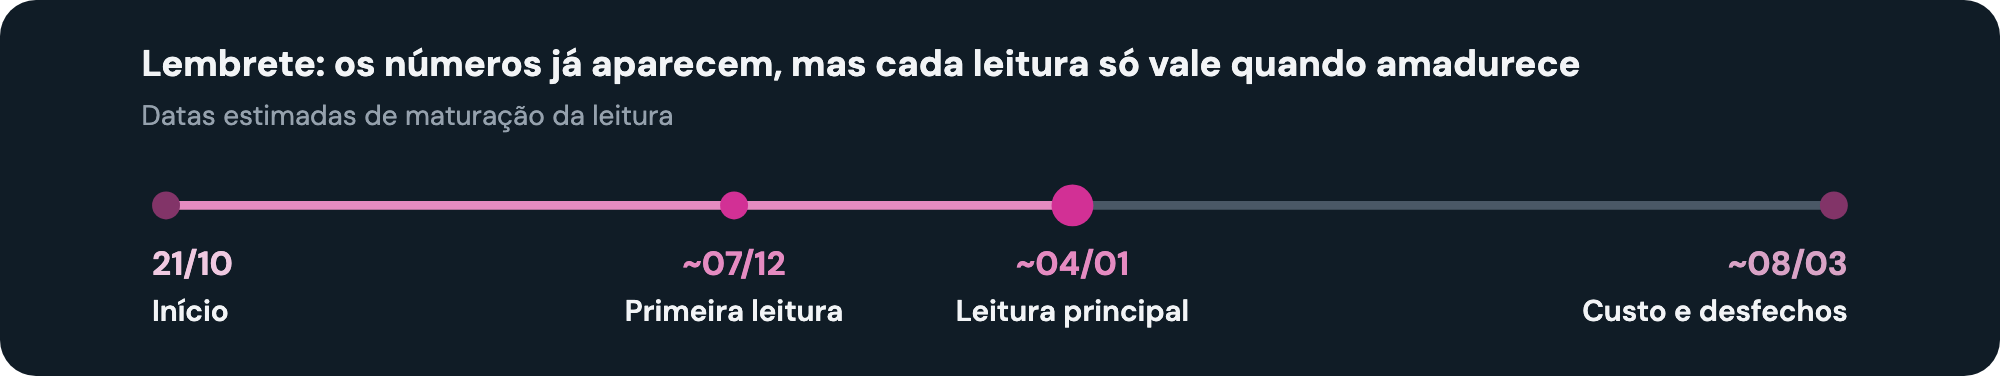
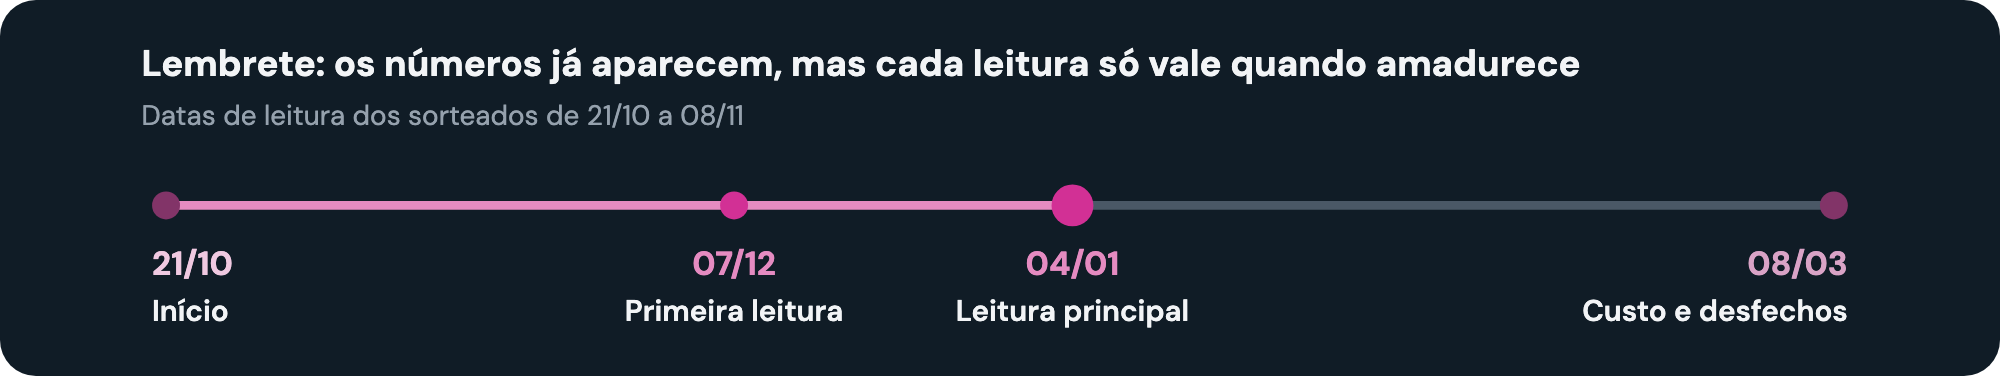
Linha do tempo compacta com as datas de leitura fixas da coorte sorteada de 21/10 a 08/11

Changed region(s): [[0.093, 0.2633, 0.372, 0.3511], [0.496, 0.6436, 0.589, 0.7314], [0.341, 0.6436, 0.403, 0.7314]]

diff --git a/gerar.py b/gerar.py
@@ -633,11 +633,11 @@ def linha_do_tempo():
 def linha_do_tempo_compacta():
     import datetime as dt
     W, H = 1000, 188
-    s = Svg(W, H, "Lembrete: os números já aparecem, mas cada leitura só vale quando amadurece. Datas estimadas: "
-                  "início em 21/10, primeira leitura por volta de 07/12, leitura principal por volta de 04/01 e custo "
-                  "e desfechos por volta de 08/03.")
+    s = Svg(W, H, "Lembrete: os números já aparecem, mas cada leitura só vale quando amadurece. Datas de leitura "
+                  "dos sorteados de 21/10 a 08/11: início em 21/10, primeira leitura em 07/12, leitura principal em "
+                  "04/01 e custo e desfechos em 08/03.")
     s.text(8, 30, "Lembrete: os números já aparecem, mas cada leitura só vale quando amadurece", size=21, fill=INK, weight=700)
-    s.text(8, 58, "Datas estimadas de maturação da leitura", size=16, fill=MUTED)
+    s.text(8, 58, "Datas de leitura dos sorteados de 21/10 a 08/11", size=16, fill=MUTED)
     ini, fim = dt.date(2026, 10, 21), dt.date(2027, 3, 8)
     x0, x1, y = 22, 978, 104
     X = lambda d: x0 + (d - ini).days / (fim - ini).days * (x1 - x0)
@@ -646,9 +646,9 @@ def linha_do_tempo_compacta():
     s.line(xp, y, x1, y, stroke="#DDDDD5", sw=5)
     marcos = [
         (dt.date(2026, 10, 21), "21/10", "Início", DARK, 8, "start"),
-        (dt.date(2026, 12, 7), "~07/12", "Primeira leitura", MAGENTA, 8, "middle"),
-        (dt.date(2027, 1, 4), "~04/01", "Leitura principal", MAGENTA, 12, "middle"),
-        (dt.date(2027, 3, 8), "~08/03", "Custo e desfechos", BETERRABA, 8, "end"),
+        (dt.date(2026, 12, 7), "07/12", "Primeira leitura", MAGENTA, 8, "middle"),
+        (dt.date(2027, 1, 4), "04/01", "Leitura principal", MAGENTA, 12, "middle"),
+        (dt.date(2027, 3, 8), "08/03", "Custo e desfechos", BETERRABA, 8, "end"),
     ]
     for d, data, titulo, cor, r, ancora in marcos:
         x = X(d)
